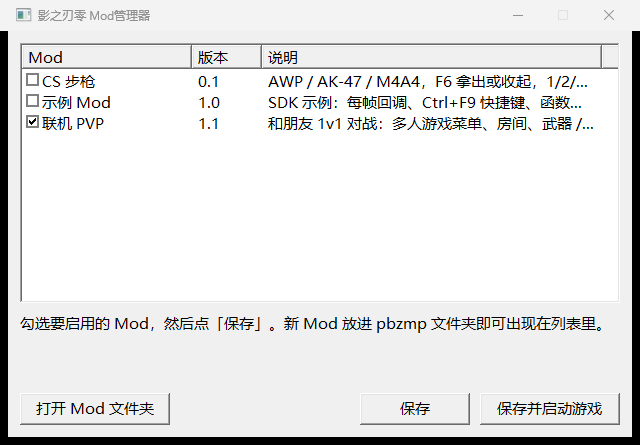
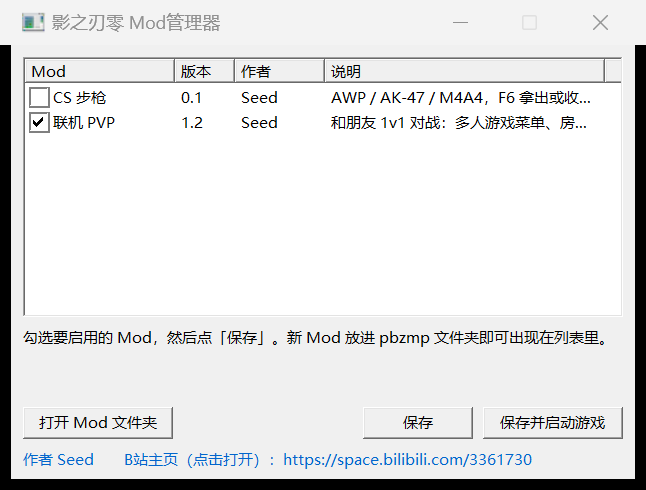
modman: author column; footer with the author and Bilibili home page (click to open)

Changed region(s): [[0.0, 0.0, 1.0, 0.9933], [0.9062, 0.0292, 0.9688, 0.0584]]

diff --git a/modman/modman.cpp b/modman/modman.cpp
@@ -31,7 +31,10 @@ static std::wstring g_dir;          // <exe dir>pbzmp (with a trailing backslash
 static std::vector<Mod> g_mods;     // listed (not hidden) mods, list view order
 static std::vector<std::wstring> g_auto;  // autorun.txt as read (order kept)
 static HWND g_list, g_info;
-enum { kList = 100, kSave, kSaveRun, kFolder };
+enum { kList = 100, kSave, kSaveRun, kFolder, kLink };
+// footer: who made the manager and where to follow updates
+static const wchar_t kAuthor[] = L"Seed";
+static const wchar_t kHome[] = L"https://space.bilibili.com/3361730";
 
 static std::wstring Trim(std::wstring s) {
     while (!s.empty() && (s.back() == L'\r' || s.back() == L'\n' || s.back() == L' ' || s.back() == L'\t')) s.pop_back();
@@ -219,7 +222,8 @@ static void Fill() {
         LVITEMW it{}; it.mask = LVIF_TEXT; it.iItem = i; it.pszText = const_cast<wchar_t*>(m.name.c_str());
         ListView_InsertItem(g_list, &it);
         ListView_SetItemText(g_list, i, 1, const_cast<wchar_t*>(m.version.c_str()));
-        ListView_SetItemText(g_list, i, 2, const_cast<wchar_t*>(m.desc.c_str()));
+        ListView_SetItemText(g_list, i, 2, const_cast<wchar_t*>(m.author.c_str()));
+        ListView_SetItemText(g_list, i, 3, const_cast<wchar_t*>(m.desc.c_str()));
         ListView_SetCheckState(g_list, i, m.on);
     }
     g_filling = false;
@@ -249,13 +253,16 @@ static LRESULT CALLBACK Wnd(HWND w, UINT msg, WPARAM wp, LPARAM lp) {
                                  12, 12, 600, 260, w, HMENU(kList), nullptr, nullptr);
         SendMessageW(g_list, WM_SETFONT, WPARAM(g_font), TRUE);
         ListView_SetExtendedListViewStyle(g_list, LVS_EX_CHECKBOXES | LVS_EX_FULLROWSELECT | LVS_EX_DOUBLEBUFFER);
-        const wchar_t* cols[] = {L"Mod", L"版本", L"说明"}; int widths[] = {170, 70, 340};
-        for (int i = 0; i < 3; ++i) { LVCOLUMNW c{}; c.mask = LVCF_TEXT | LVCF_WIDTH; c.pszText = const_cast<wchar_t*>(cols[i]); c.cx = widths[i]; ListView_InsertColumn(g_list, i, &c); }
+        const wchar_t* cols[] = {L"Mod", L"版本", L"作者", L"说明"}; int widths[] = {150, 60, 90, 280};
+        for (int i = 0; i < 4; ++i) { LVCOLUMNW c{}; c.mask = LVCF_TEXT | LVCF_WIDTH; c.pszText = const_cast<wchar_t*>(cols[i]); c.cx = widths[i]; ListView_InsertColumn(g_list, i, &c); }
         g_info = CreateWindowExW(0, L"STATIC", L"", WS_CHILD | WS_VISIBLE, 12, 282, 600, 72, w, nullptr, nullptr, nullptr);
         SendMessageW(g_info, WM_SETFONT, WPARAM(g_font), TRUE);
         Btn(w, L"打开 Mod 文件夹", kFolder, 12, 362, 150);
         Btn(w, L"保存", kSave, 352, 362, 110);
         Btn(w, L"保存并启动游戏", kSaveRun, 472, 362, 140);
+        std::wstring foot = std::wstring(L"作者 ") + kAuthor + L"　　B站主页（点击打开）：" + kHome;
+        HWND link = CreateWindowExW(0, L"STATIC", foot.c_str(), WS_CHILD | WS_VISIBLE | SS_NOTIFY, 12, 404, 600, 22, w, HMENU(kLink), nullptr, nullptr);
+        SendMessageW(link, WM_SETFONT, WPARAM(g_font), TRUE);
         Scan(); Fill(); ShowInfo(-1);
         if (GetFileAttributesW(g_dir.c_str()) == INVALID_FILE_ATTRIBUTES)
             MessageBoxW(w, (L"没找到 Mod 文件夹：\n" + g_dir + L"\n\n请把 Mod管理器.exe 放在游戏的 platform\\steam 文件夹里（和 PBZ.exe、version.dll 同一层）。").c_str(), L"Mod管理器", MB_ICONWARNING);
@@ -282,8 +289,15 @@ static LRESULT CALLBACK Wnd(HWND w, UINT msg, WPARAM wp, LPARAM lp) {
     case WM_COMMAND:
         if (LOWORD(wp) == kSave) DoSave(w, false);
         else if (LOWORD(wp) == kSaveRun) DoSave(w, true);
+        else if (LOWORD(wp) == kLink && HIWORD(wp) == STN_CLICKED) ShellExecuteW(nullptr, L"open", kHome, nullptr, nullptr, SW_SHOWNORMAL);
         else if (LOWORD(wp) == kFolder) ShellExecuteW(nullptr, L"open", g_dir.c_str(), nullptr, nullptr, SW_SHOWNORMAL);
         return 0;
+    case WM_CTLCOLORSTATIC:  // the footer link in blue
+        if (GetDlgCtrlID(HWND(lp)) == kLink) { SetTextColor(HDC(wp), RGB(0, 102, 204)); SetBkMode(HDC(wp), TRANSPARENT); return LRESULT(GetSysColorBrush(COLOR_BTNFACE)); }
+        break;
+    case WM_SETCURSOR:
+        if (GetDlgCtrlID(HWND(wp)) == kLink) { SetCursor(LoadCursor(nullptr, IDC_HAND)); return TRUE; }
+        break;
     case WM_DESTROY: PostQuitMessage(0); return 0;
     }
     return DefWindowProcW(w, msg, wp, lp);
@@ -300,6 +314,7 @@ static int Cli(const std::wstring& cmd) {
         out += (ok ? L"saved: " : L"refused: ") + msg + L"\n";
     }
     for (auto& m : g_mods) out += (m.on ? L"[x] " : L"[ ] ") + m.id + L" | " + m.name + L" | " + m.version + L"\n";
+    out += std::wstring(L"author: ") + kAuthor + L" " + kHome + L"\n";
     out += L"autorun:"; for (auto& a : g_auto) out += L" " + a; out += L"\n";
     if (cmd == L"--chain") { std::wstring m; ChainForeign(g_dir.substr(0, g_dir.size() - 6), &m); out += L"chain: " + m + L"\n"; }
     else if (!g_loaderNote.empty()) out += L"loader: " + g_loaderNote + L"\n";
@@ -317,7 +332,7 @@ int WINAPI wWinMain(HINSTANCE hi, HINSTANCE, PWSTR cmdline, int show) {
     wc.hCursor = LoadCursor(nullptr, IDC_ARROW); wc.hbrBackground = HBRUSH(COLOR_BTNFACE + 1);
     wc.hIcon = LoadIcon(nullptr, IDI_APPLICATION);
     RegisterClassW(&wc);
-    RECT r{0, 0, 624, 406}; AdjustWindowRect(&r, WS_OVERLAPPED | WS_CAPTION | WS_SYSMENU | WS_MINIMIZEBOX, FALSE);
+    RECT r{0, 0, 624, 434}; AdjustWindowRect(&r, WS_OVERLAPPED | WS_CAPTION | WS_SYSMENU | WS_MINIMIZEBOX, FALSE);
     HWND w = CreateWindowW(L"PbzModMan", L"影之刃零 Mod管理器", WS_OVERLAPPED | WS_CAPTION | WS_SYSMENU | WS_MINIMIZEBOX,
                            CW_USEDEFAULT, CW_USEDEFAULT, r.right - r.left, r.bottom - r.top, nullptr, nullptr, hi, nullptr);
     ShowWindow(w, show);
